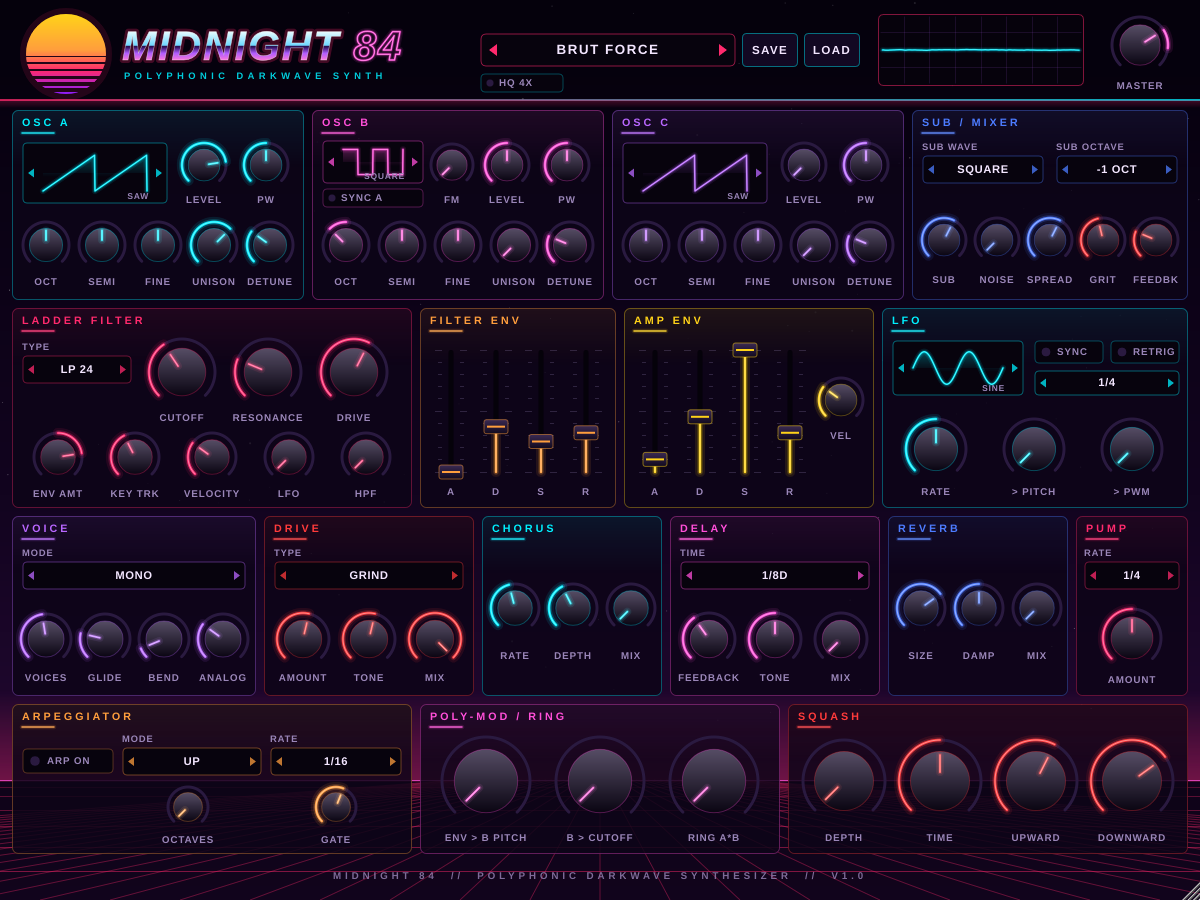
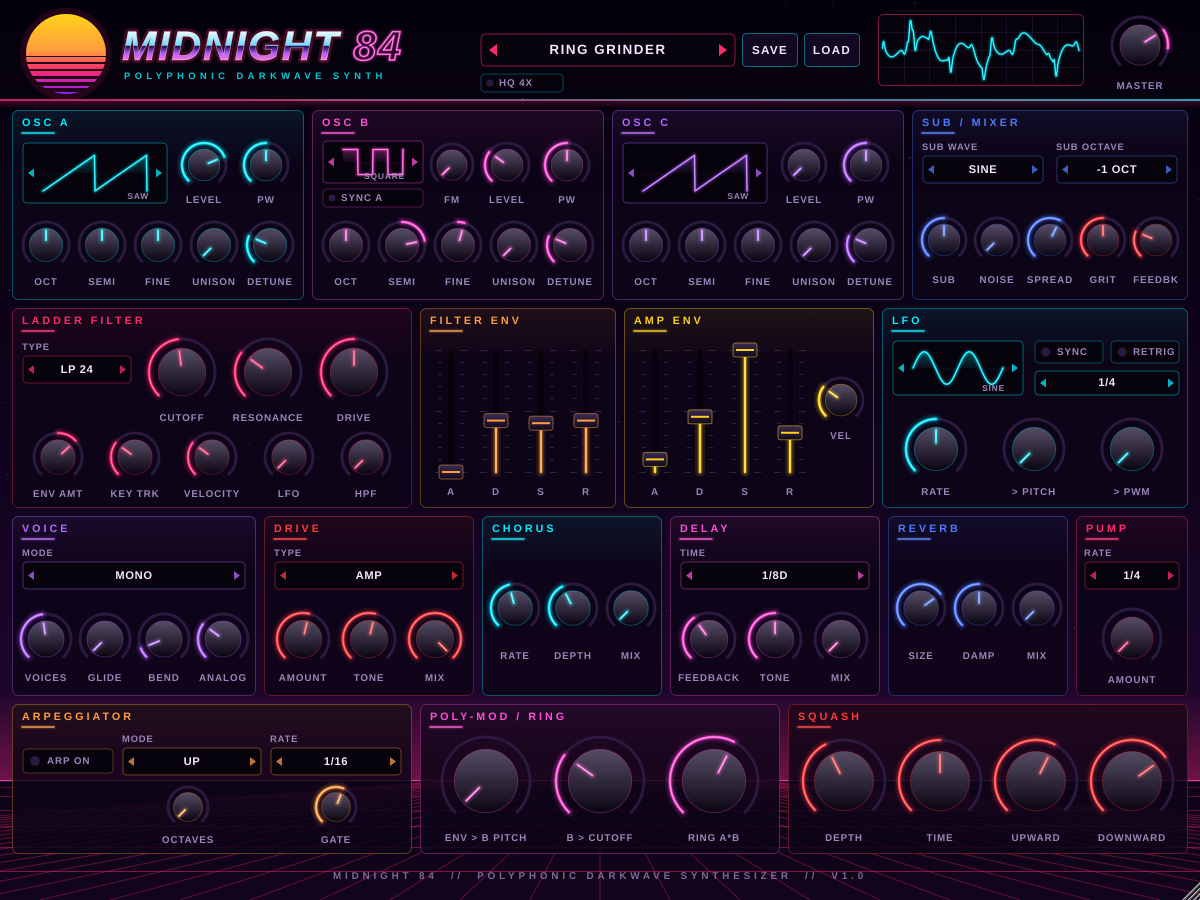
Screenshots of the new interface; render test can snapshot a named preset
Claude-Session: https://claude.ai/code/session_01X4ygGPnVXL2WuYRCSAhPCV

diff --git a/tests/RenderTest.cpp b/tests/RenderTest.cpp
@@ -233,8 +233,23 @@ int main (int argc, char* argv[])
         ok = ok && gapB < gapA - 6.0f;
     }
 
-    // Editor screenshot.
-    proc.setCurrentProgram (2);
+    // Editor screenshot: optional argv[2] names the preset; a held chord fills the scope first.
+    {
+        int prog = 2;
+        if (argc > 2)
+            for (int i = 0; i < proc.getNumPrograms(); ++i)
+                if (proc.getProgramName (i) == juce::String (argv[2])) prog = i;
+        proc.setCurrentProgram (prog);
+        proc.prepareToPlay (sr, block);
+        juce::AudioBuffer<float> b (2, block);
+        for (int pos = 0; pos < (int) (0.6 * sr); pos += block)
+        {
+            juce::MidiBuffer midi;
+            if (pos == 0)
+                for (int n : { 41, 53 }) midi.addEvent (juce::MidiMessage::noteOn (1, n, 1.0f), 0);
+            proc.processBlock (b, midi);
+        }
+    }
     {
         std::unique_ptr<juce::AudioProcessorEditor> editor (proc.createEditor());
         editor->setSize (1200, 900);
